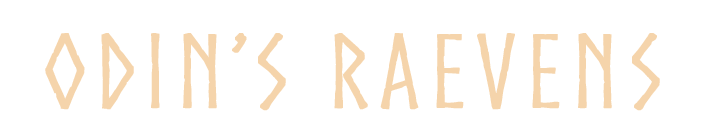
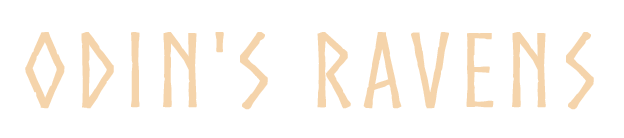
landing design

Changed region(s): [[0.2131, 0.2319, 0.9744, 0.8116], [0.0304, 0.2319, 0.2131, 0.7826]]

diff --git a/client/src/index 2.css b/client/src/index 2.css
@@ -1,0 +1,14 @@
+body {
+  font-family: 'Donegal One', serif;
+}
+
+
+
+/* font-family: 'Alegreya', serif;
+font-family: 'Sorts Mill Goudy', serif;
+font-family: 'Gentium Book Basic', serif;
+font-family: 'Average', serif;
+font-family: 'Artifika', serif;
+font-family: 'Prociono', serif;
+font-family: 'Kotta One', serif;
+font-family: 'Donegal One', serif; */
